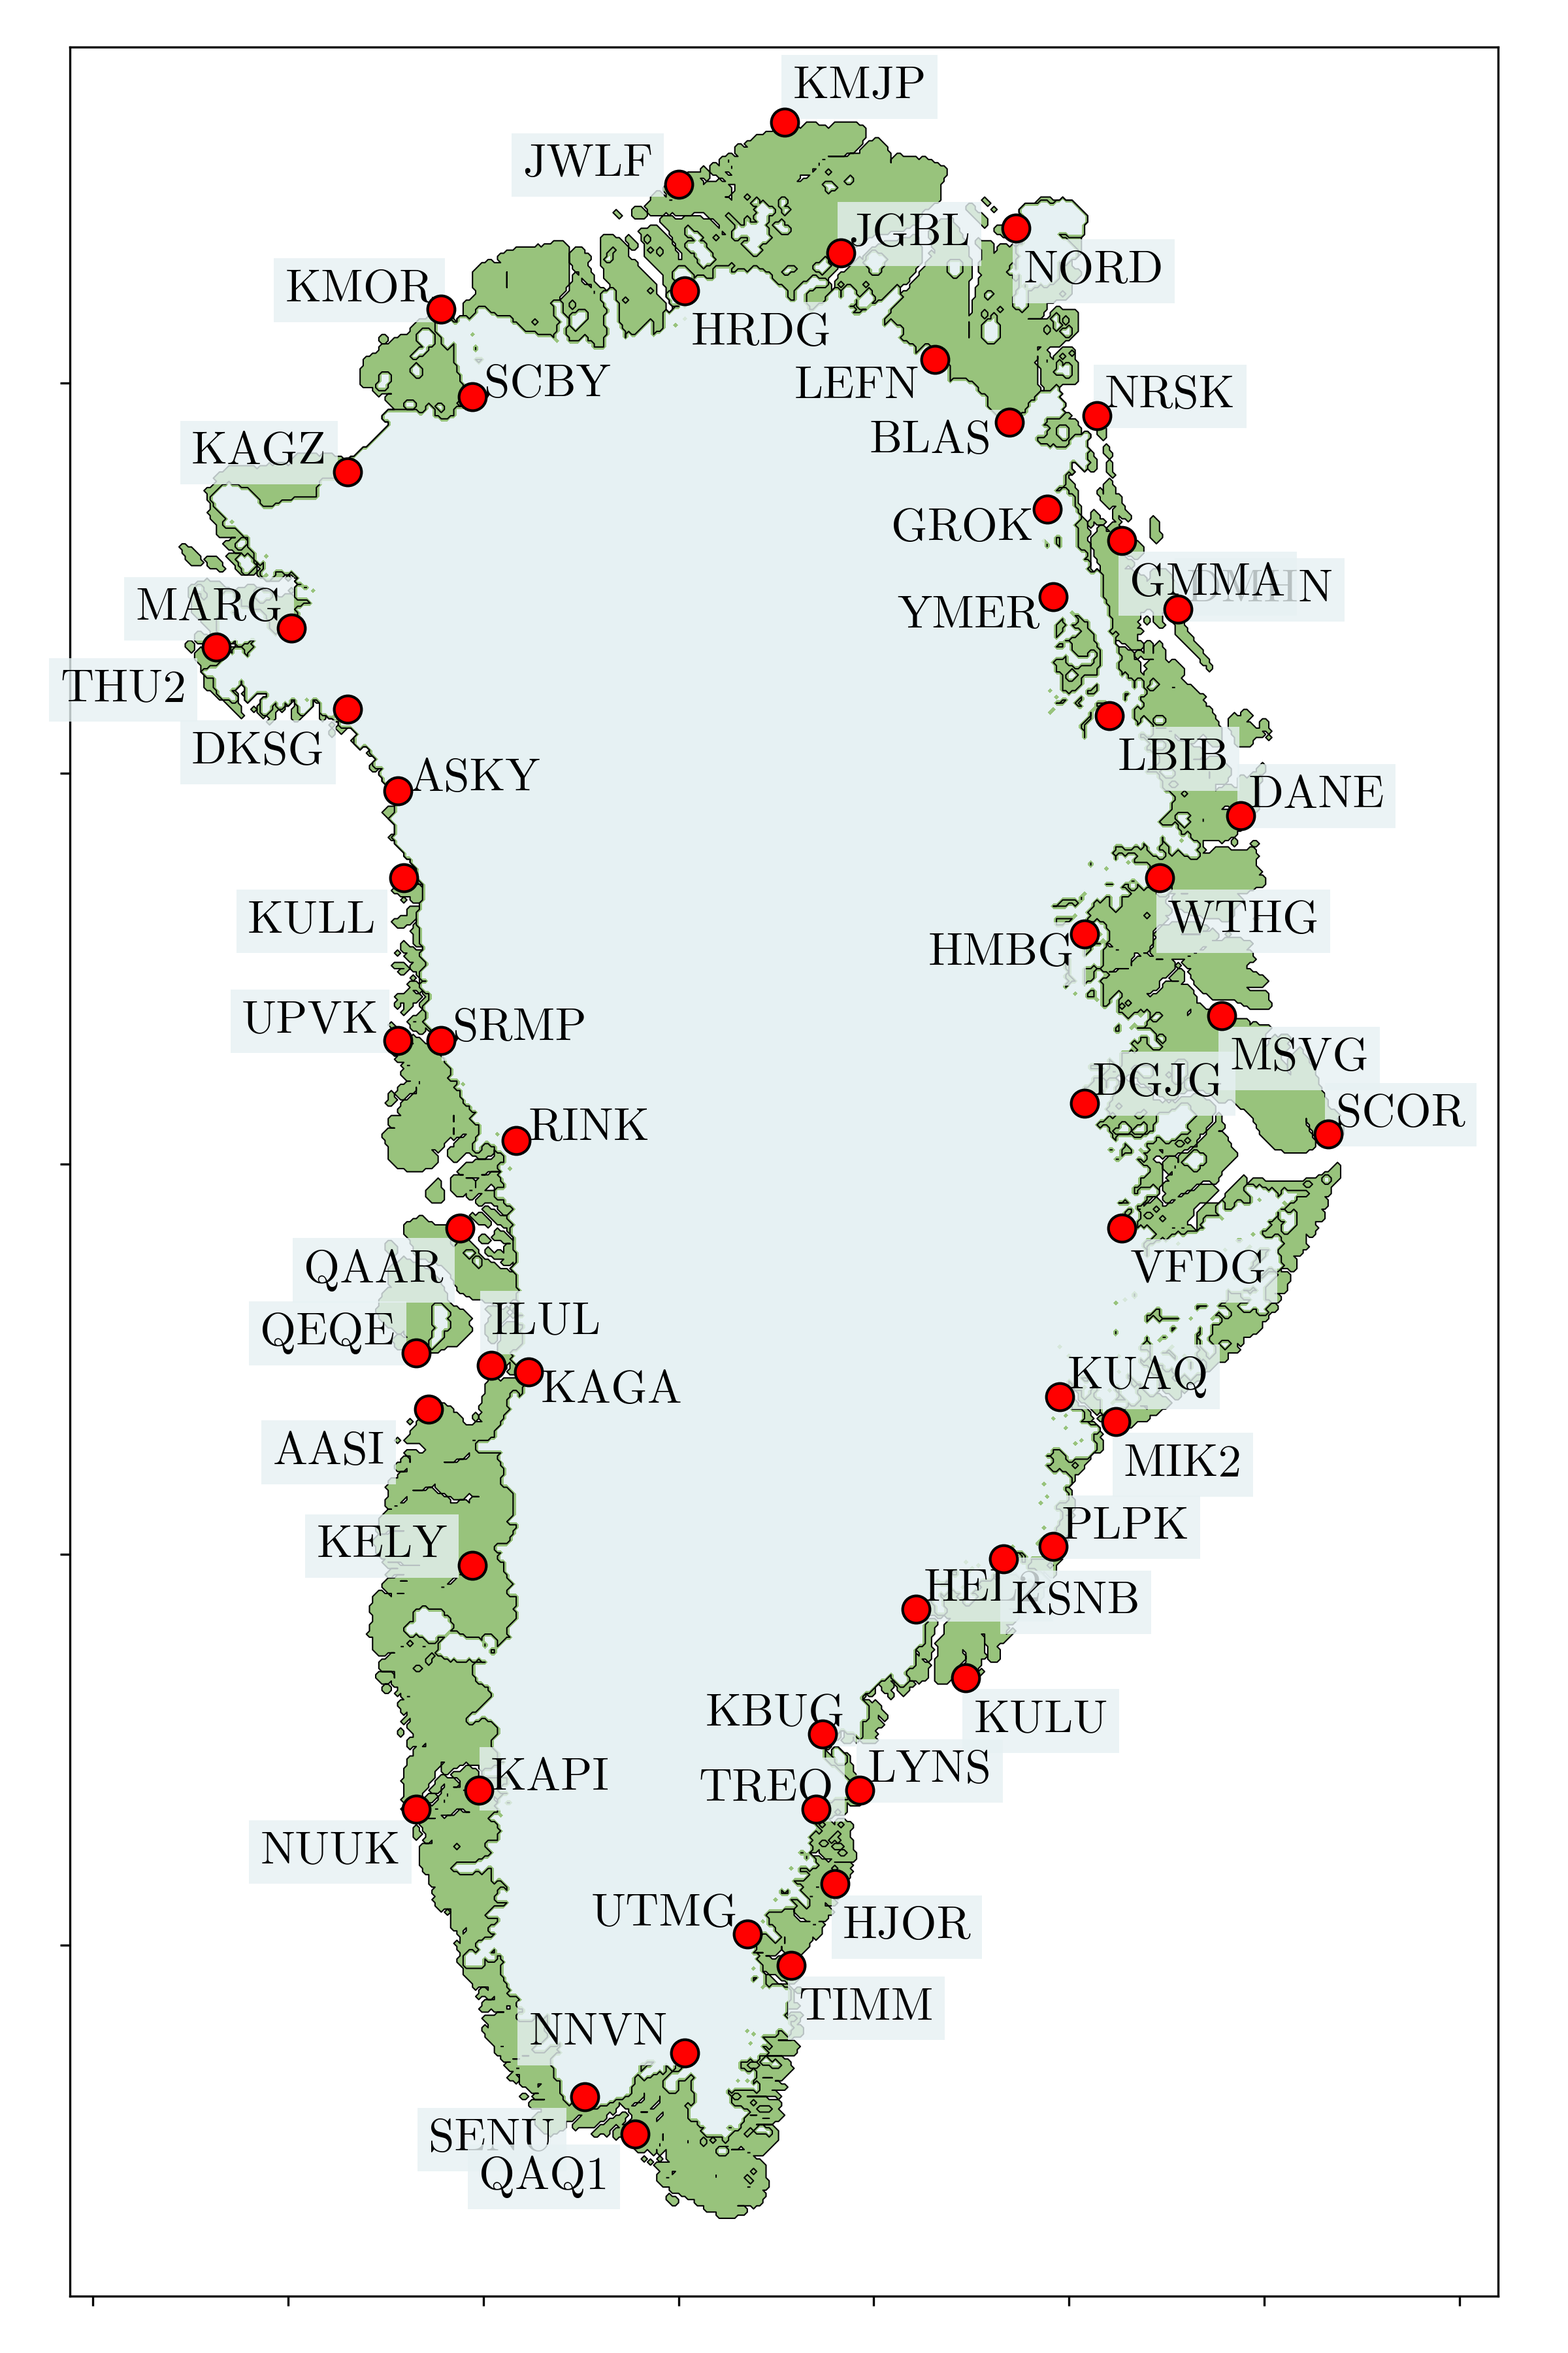
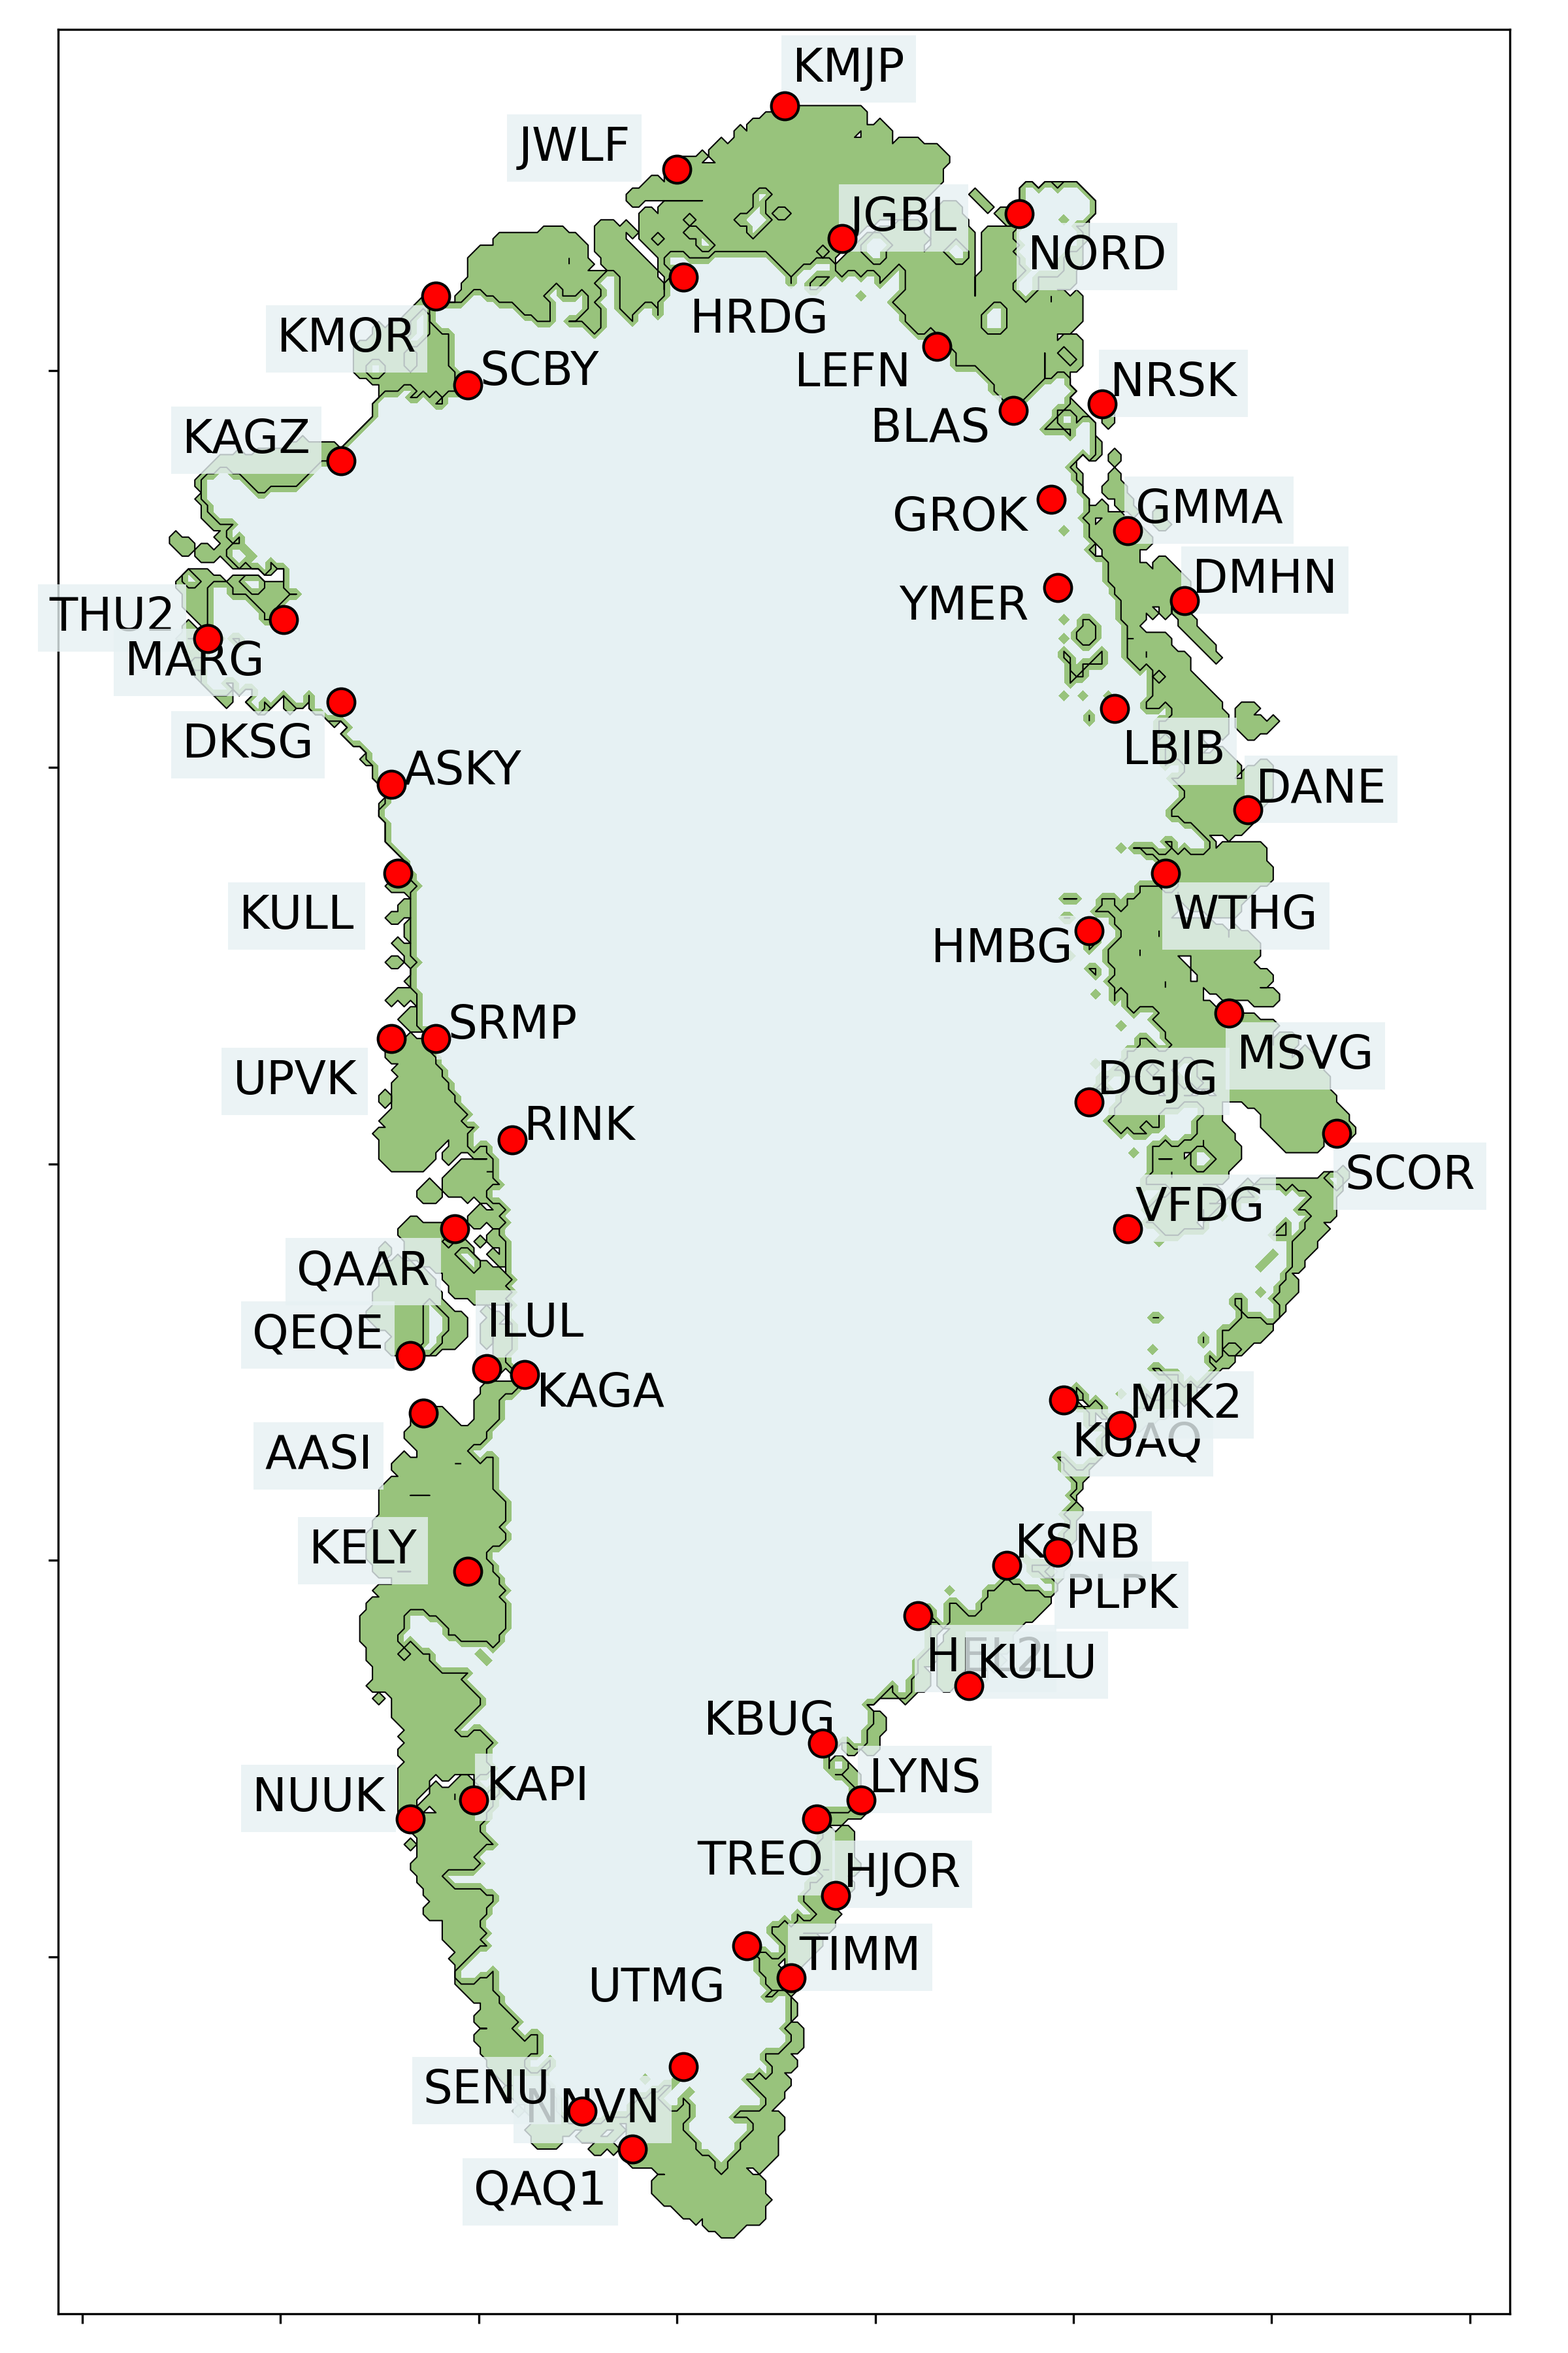
Schumacher: better order in the stations

diff --git a/Schumacher2018_GIA_GrIS/process_schumacher2018.py b/Schumacher2018_GIA_GrIS/process_schumacher2018.py
@@ -48,6 +48,14 @@ ds = ds.assign_coords(
 
 ds_gris=ds.where((ds.xc>-600)&(ds.xc<900)&(ds.yc>-3400)&(ds.yc<0))
 ds_gris = ds_gris.dropna(dim="station", subset=["v_vert", "std"])
+
+order = ['NUUK','KAPI','KELY','AASI','ILUL','KAGA','QEQE','QAAR','RINK','UPVK','SRMP','KULL','ASKY',
+         'DKSG','THU2','MARG','KAGZ','KMOR','SCBY','HRDG','JWLF','KMJP','JGBL','NORD','LEFN','BLAS',
+         'NRSK','GROK','GMMA','YMER','DMHN','LBIB','DANE','WTHG','HMBG','MSVG','DGJG','SCOR','VFDG',
+         'KUAQ','MIK2','PLPK','KSNB','HEL2','KULU','KBUG','LYNS','TREO','HJOR','UTMG','TIMM','NNVN',
+         'SENU','QAQ1']
+
+ds_gris = ds_gris.reindex(station=order)
 ds_gris.to_netcdf("./data/schumacher2018_GR.nc")
 
 
